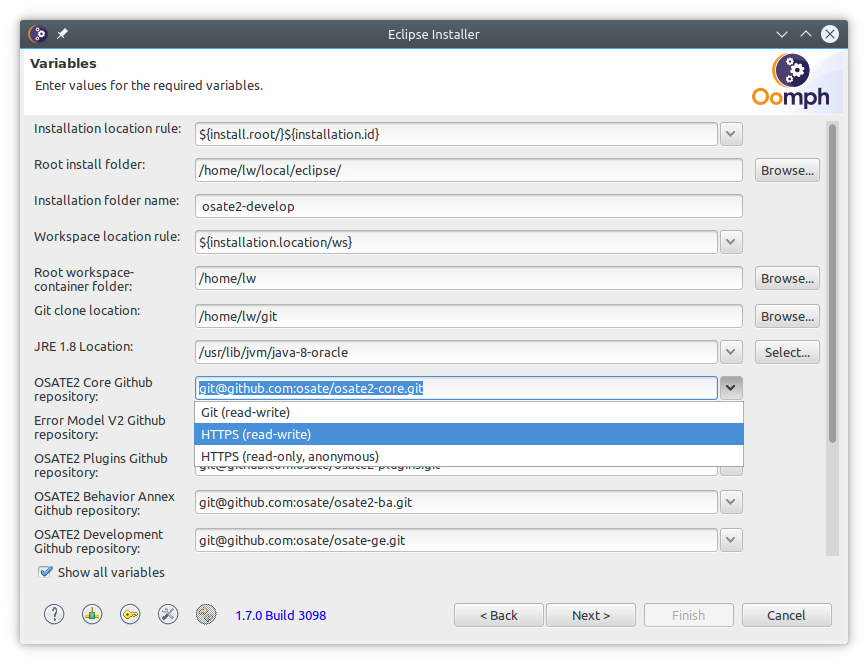
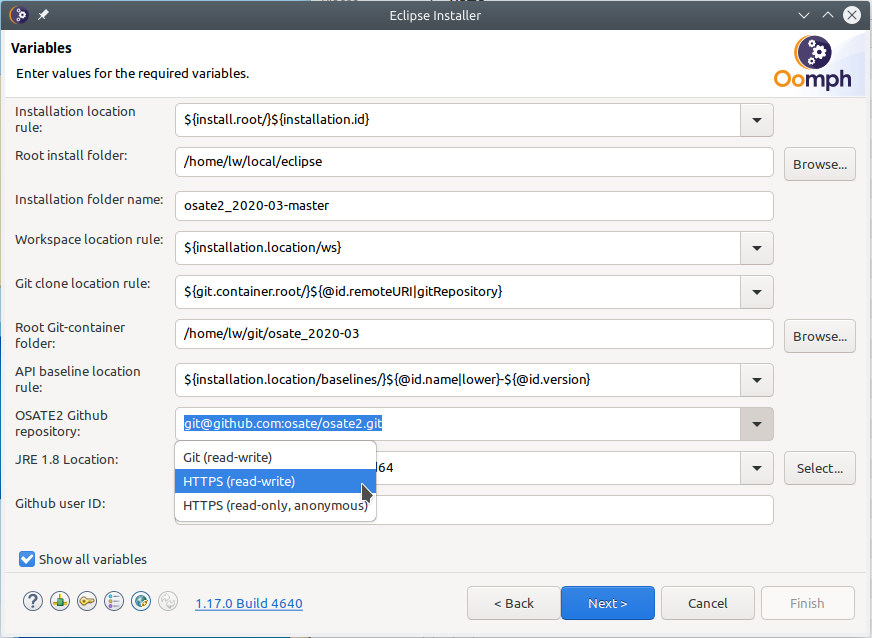
rebuild pages at 50eeaa4

Changed region(s): [[0.0, 0.0, 1.0, 1.0], [0.0, 0.9828, 0.0311, 1.0]]

diff --git a/searchindex.js b/searchindex.js
@@ -1,1 +1,1 @@
[2 lines of base64/hex data omitted]

diff --git a/setup-development.html b/setup-development.html
@@ -205,23 +205,24 @@
 <p><img alt="Installer 2" src="_images/installer2.png" /></p>
 <p>On first use update the installer (A)</p>
 <p>If necessary, configure proxy settings, and optionally enter ssh credentials (B). User the help (C) for more detailed information on these steps.</p>
-<p>Select <em>Eclipse Modeling Tools</em> as the base product to install, and select <em>2019-12</em> as the product version. Choose 64bit as your Java version.</p>
+<p>Select <strong>Eclipse IDE for Java Developers</strong> as the base product to install, and select *<em>2020-03</em> as the product version. Choose 64bit as your Java version.</p>
 </div>
 <div class="section" id="add-the-osate-setup-file">
 <h2>4. Add the OSATE setup file<a class="headerlink" href="#add-the-osate-setup-file" title="Permalink to this headline">¶</a></h2>
 <p><img alt="Installer 3" src="_images/installer3.png" /></p>
 <p>Add a user project by clicking on the + icon (A).</p>
 <p>Select the catalog <em>Github Projects</em> and enter the following URL as the <em>Resource URI</em>:</p>
-<p>https://raw.githubusercontent.com/osate/osate2/master/setup/osate2_2019-12.setup</p>
+<p>https://raw.githubusercontent.com/osate/osate2/master/setup/osate2_2020-03.setup</p>
 <p>Check the box next to the added OSATE2 Development entry in the tree under Github Projects/<User>. Then select the master stream in right column of the table at the bottom.</p>
 </div>
 <div class="section" id="set-required-variables">
 <h2>5. Set required variables<a class="headerlink" href="#set-required-variables" title="Permalink to this headline">¶</a></h2>
 <p><img alt="Installer 4" src="_images/installer4.png" /></p>
 <p>Check <em>Show all variables</em> near the bottom of the dialog. Without this, only variables that do not have a value will be displayed. Oomph stores variable values between invocations, so nothing would be shown after the first run.</p>
-<p>The first group of variables determines the directory for the new eclipse installation. You can choose between (a) a root directory and a subdirectory within that root directory and (b) a full path to the installation directory.</p>
+<p>The first group of variables determines the directory for the new eclipse installation. In <em>Installation location rule</em> you can choose between (a) a root directory and a subdirectory within that root directory and (b) a full path to the installation directory. Depending on your choice you will need to fill in the installation path and directory name.</p>
 <p>The next group determines the location of the workspace. Do not reuse an existing workspace as that will likely lead to problems.</p>
-<p>The git clone location is the root directory into which all git repositories are cloned. The tycho build requires that all git repositories share the same root directory. If you have (all or some) repositories cloned already you can re-use the clones. Make sure that all clones have the develop branch checked out (except osate2-ocarina, which has just a master branch). Also, make sure that they are up to date by issuing a <em>git pull</em> command.</p>
+<p>The <em>Git clone location rule</em> determines how the path to the osate2 git repository clone is constructed. The osate2 git repository can be cloned in a directory in the installation location, workspace location, or elsewhere. Depending on the location a new field will be shown to enter a directory.</p>
+<p>The <em>API baseline location rule</em> determines how the path to store API baseline files is constructed. The API baseline(s) can be stored in a directory in the installation location, workspace location, or elsewhere. Depending on the location a new field will be shown to enter a directory. <em>Do not store API baseline files in a local git repository.</em></p>
 <p>Finally, choose how to access the git repositories. The default choice uses ssh access and requires ssh credentials (click the key icon at the bottom to set this up), and your public key must be uploaded to github. The  <em>HTTPS (read-write)</em> option uses your Github username and password. When you choose https a variable for the user name will show up. Replace the default <em>anonymous</em> with your github user name.</p>
 </div>
 <div class="section" id="install-eclipse">
@@ -327,7 +328,7 @@ You can edit the user setup to override the setting for all eclipse installation
         
         &copy; Copyright 2016-2020, Carnegie Mellon University
       <span class="lastupdated">
-        Last updated on Apr 21, 2020.
+        Last updated on May 09, 2020.
       </span>
 
     </p>

diff --git a/about-osate.html b/about-osate.html
@@ -329,7 +329,7 @@ task-focused views of a model, and enhance support for collaborative model devel
         
         &copy; Copyright 2016-2020, Carnegie Mellon University
       <span class="lastupdated">
-        Last updated on Apr 21, 2020.
+        Last updated on May 09, 2020.
       </span>
 
     </p>

diff --git a/annex-support.html b/annex-support.html
@@ -205,7 +205,7 @@ proposed as errata (see <a class="reference external" href="https:github.com/sae
         
         &copy; Copyright 2016-2020, Carnegie Mellon University
       <span class="lastupdated">
-        Last updated on Apr 21, 2020.
+        Last updated on May 09, 2020.
       </span>
 
     </p>

diff --git a/dev/writing-tests.html b/dev/writing-tests.html
@@ -266,7 +266,7 @@ plugins that depend on UI plugins even if they don’t use the UI during the tes
         
         &copy; Copyright 2016-2020, Carnegie Mellon University
       <span class="lastupdated">
-        Last updated on Apr 21, 2020.
+        Last updated on May 09, 2020.
       </span>
 
     </p>

diff --git a/osate-roadmap.html b/osate-roadmap.html
@@ -296,7 +296,7 @@ and <code class="docutils literal notranslate"><span class="pre">Subset</span></
         
         &copy; Copyright 2016-2020, Carnegie Mellon University
       <span class="lastupdated">
-        Last updated on Apr 21, 2020.
+        Last updated on May 09, 2020.
       </span>
 
     </p>

diff --git a/download-and-install.html b/download-and-install.html
@@ -295,7 +295,7 @@ using it for production purpose due to potential unstable features.</p>
         
         &copy; Copyright 2016-2020, Carnegie Mellon University
       <span class="lastupdated">
-        Last updated on Apr 21, 2020.
+        Last updated on May 09, 2020.
       </span>
 
     </p>

diff --git a/additional-components.html b/additional-components.html
@@ -218,7 +218,7 @@ uniprocessor and multiprocessor real-time systems.</p>
         
         &copy; Copyright 2016-2020, Carnegie Mellon University
       <span class="lastupdated">
-        Last updated on Apr 21, 2020.
+        Last updated on May 09, 2020.
       </span>
 
     </p>

diff --git a/getting-help.html b/getting-help.html
@@ -196,7 +196,7 @@ how to sign up, and how to post.</p>
         
         &copy; Copyright 2016-2020, Carnegie Mellon University
       <span class="lastupdated">
-        Last updated on Apr 21, 2020.
+        Last updated on May 09, 2020.
       </span>
 
     </p>

diff --git a/index.html b/index.html
@@ -252,7 +252,7 @@ Wiki</a> to here.</p>
         
         &copy; Copyright 2016-2020, Carnegie Mellon University
       <span class="lastupdated">
-        Last updated on Apr 21, 2020.
+        Last updated on May 09, 2020.
       </span>
 
     </p>

diff --git a/osate-releases.html b/osate-releases.html
@@ -3568,7 +3568,7 @@ Long</a>.</p>
         
         &copy; Copyright 2016-2020, Carnegie Mellon University
       <span class="lastupdated">
-        Last updated on Apr 21, 2020.
+        Last updated on May 09, 2020.
       </span>
 
     </p>

diff --git a/dev/building-osate.html b/dev/building-osate.html
@@ -209,7 +209,7 @@
         
         &copy; Copyright 2016-2020, Carnegie Mellon University
       <span class="lastupdated">
-        Last updated on Apr 21, 2020.
+        Last updated on May 09, 2020.
       </span>
 
     </p>
